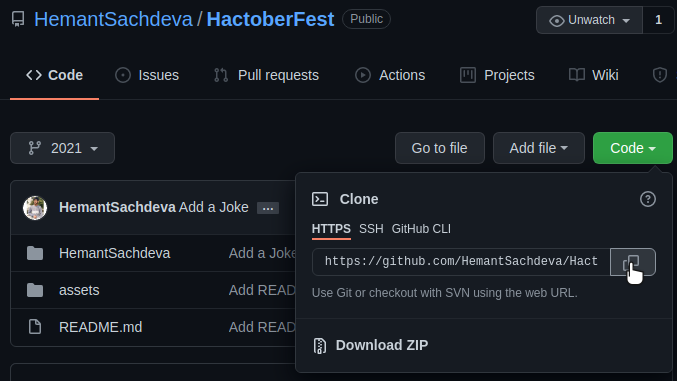
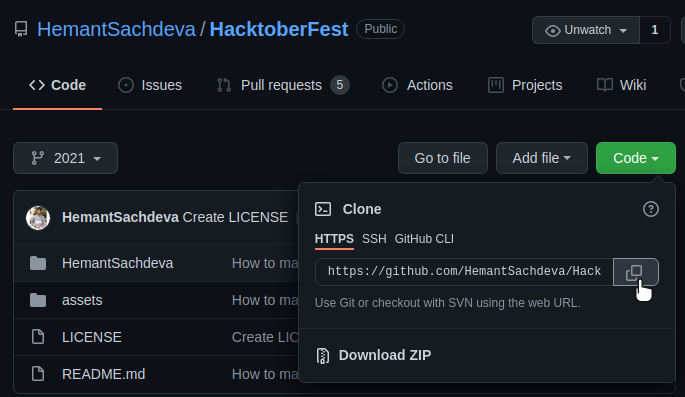
HactoberFest ==> HacktoberFest

diff --git a/README.md b/README.md
@@ -1,17 +1,17 @@
-![BANNER](https://raw.githubusercontent.com/HemantSachdeva/HactoberFest/2021/assets/HactoberFest.jpg)
+![BANNER](https://raw.githubusercontent.com/HemantSachdeva/HacktoberFest/2021/assets/HacktoberFest.jpg)
 
-# How to make a valid pull request and participate in HactoberFest?
+# How to make a valid pull request and participate in HacktoberFest?
 
 1. Fork this repository to your profile from top right of this page.
 
-![FORK](https://raw.githubusercontent.com/HemantSachdeva/HactoberFest/2021/assets/fork.png)
+![FORK](https://raw.githubusercontent.com/HemantSachdeva/HacktoberFest/2021/assets/fork.png)
 
 2. Clone the repository to your local machine.
 
-![CLONE](https://raw.githubusercontent.com/HemantSachdeva/HactoberFest/2021/assets/clone.png)
+![CLONE](https://raw.githubusercontent.com/HemantSachdeva/HacktoberFest/2021/assets/clone.png)
 
 ```
-git clone git@github.com:HemantSachdeva/HactoberFest.git || git clone https://github.com/HemantSachdeva/HactoberFest.git
+git clone git@github.com:HemantSachdeva/HacktoberFest.git || git clone https://github.com/HemantSachdeva/HacktoberFest.git
 ```
 
 3. Now open the cloned repository folder in your favourite code editor, make a new directory/folder as same as your GitHub username. And create a new file named README.md inside that directory.
@@ -48,4 +48,4 @@ Most likely I will be merging the PR to 2021 branch in less than a 24 hours. You
 ### Note:
 ### *1. You can use Markdown syntax for formatting.*
 ### *2. Add any jpg or png or gif into assets directory with your github username if you want to showcase a pic/gif in README.md and copy the download url.*
-(Read the raw file code of this [README.md](https://raw.githubusercontent.com/HemantSachdeva/HactoberFest/2021/README.md) to know how to add media and make your README look better.)
+(Read the raw file code of this [README.md](https://raw.githubusercontent.com/HemantSachdeva/HacktoberFest/2021/README.md) to know how to add media and make your README look better.)
